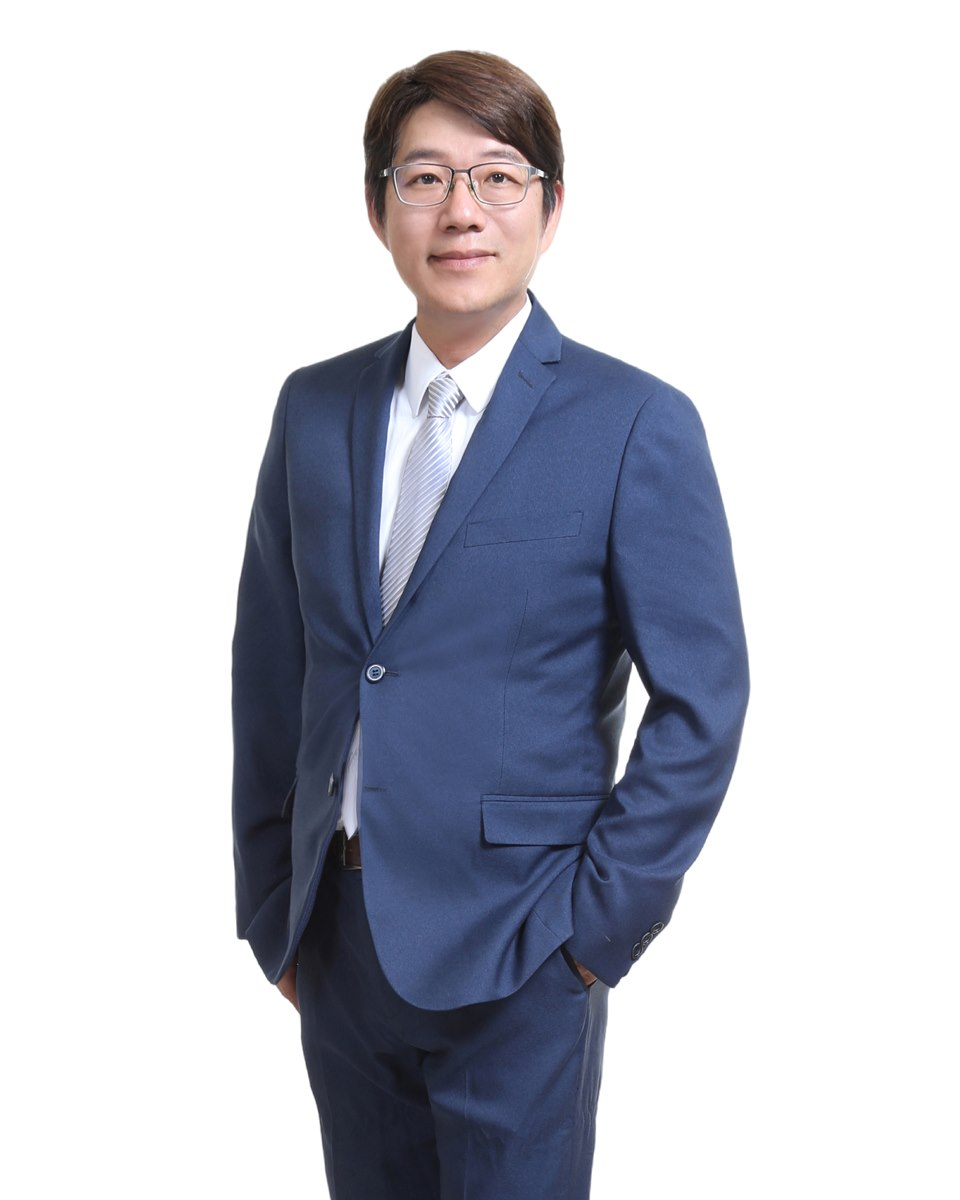
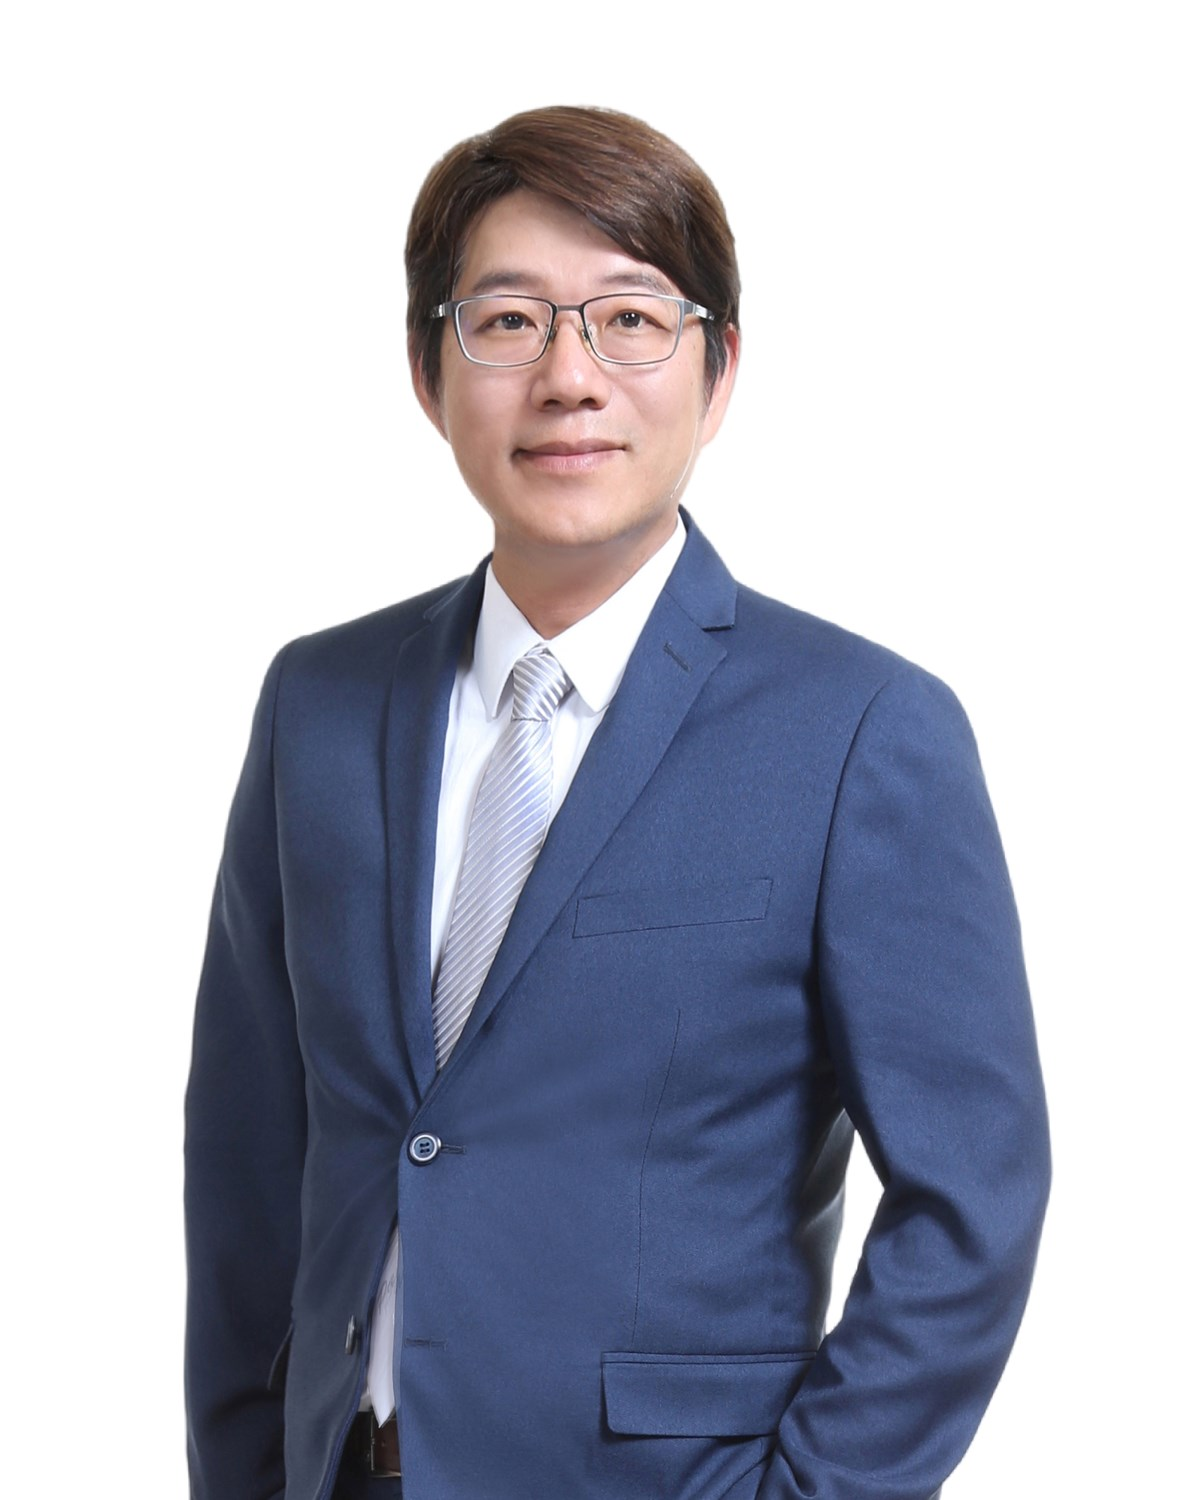
首頁形象照改用半身裁切，名片頁人設加括號
形象照：本人反映「看不清楚」。查過不是解析度問題（960x1200 檔案
只顯示成 330x413，是需要的 2.3 倍），是構圖太遠——人只佔畫面寬 54%，
縮到 330px 後臉只剩約 60px。改成半身裁切（頭到腰下），人佔 72%，
輸出 1200x1500。

名片頁姓名旁的「房仲蕭邦」加上括號，跟首頁的寫法一致。

diff --git a/src/app/card/page.tsx b/src/app/card/page.tsx
@@ -121,7 +121,7 @@ export default function CardPage() {
               {ABIN.name}
               {/* 封面顯示品牌人設「房仲蕭邦」，不是慣用稱呼「茗馥」——
                   門面掛品牌，一對一溝通的文案才用本名（見 config/owner.ts 註解）。 */}
-              <span style={{ color: RCIS.muted, fontSize: 17, fontWeight: 500, marginLeft: 10 }}>{ABIN.brandPersona}</span>
+              <span style={{ color: RCIS.muted, fontSize: 17, fontWeight: 500, marginLeft: 10 }}>({ABIN.brandPersona})</span>
             </div>
             <div style={{ fontSize: 15, color: RCIS.inkSoft, marginTop: 6, fontWeight: 500 }}>{ABIN.title}</div>
             <div style={{ fontSize: 14, color: RCIS.muted, marginTop: 12, lineHeight: 1.7 }}>{ABIN.slogan}</div>

diff --git a/src/app/page.tsx b/src/app/page.tsx
@@ -126,7 +126,7 @@ export const metadata: Metadata = {
     url: SITE_URL,
     siteName: BRAND,
     locale: "zh_TW",
-    images: [{ url: OG_IMAGE, width: 960, height: 1200, alt: `${OWNER.name} 形象照` }],
+    images: [{ url: OG_IMAGE, width: 1200, height: 1500, alt: `${OWNER.name} 形象照` }],
   },
   twitter: {
     card: "summary_large_image",
@@ -248,8 +248,8 @@ export default function HomePage() {
             <img
               src="/profile.jpg"
               alt={`${OWNER.name}－台中海線房仲（沙鹿、龍井、清水、梧棲）個人形象照`}
-              width={960}
-              height={1200}
+              width={1200}
+              height={1500}
               fetchPriority="high"
             />
             <span className={styles.heroBadge}>
